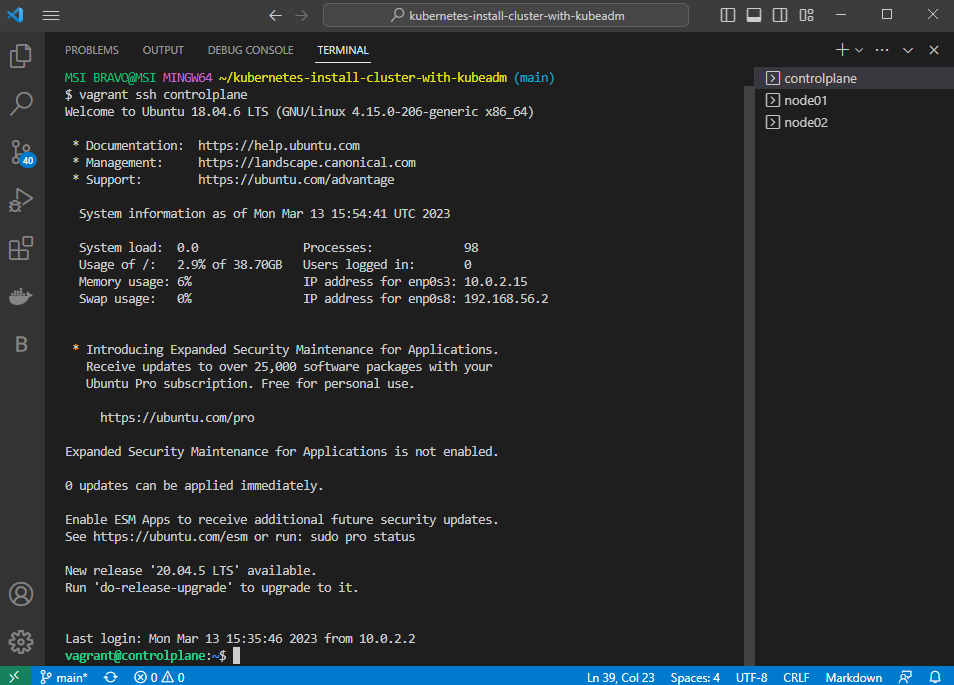
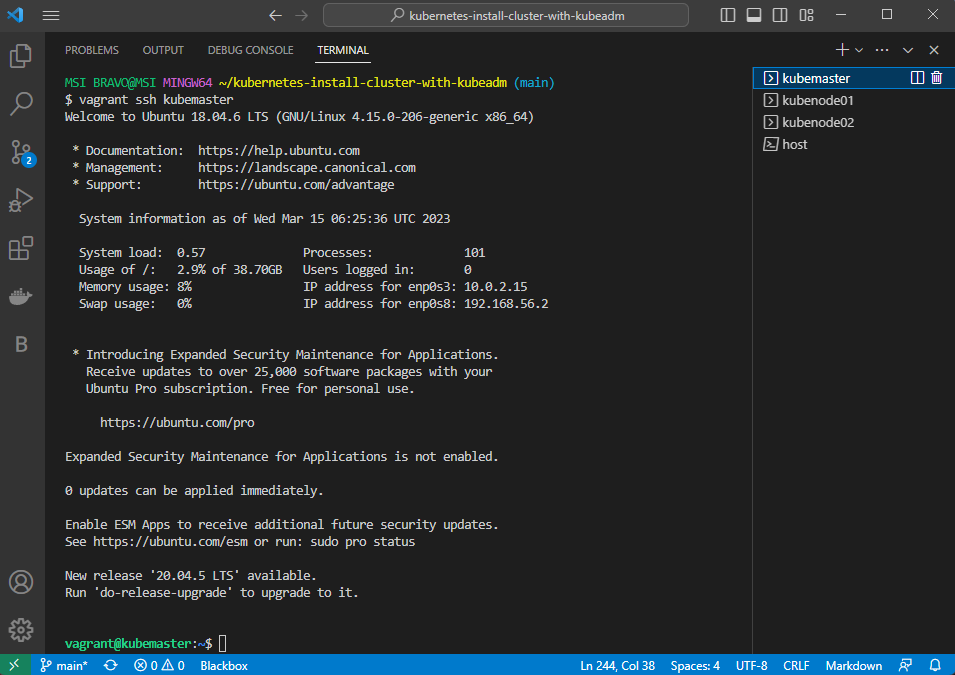
update

diff --git a/docs/Provision-VirtualBoxVM-with-Vagrant.md b/docs/Provision-VirtualBoxVM-with-Vagrant.md
@@ -103,13 +103,146 @@ Run the command:
 
     vagrant up
 
-![Vagrant up output](images/vagrant-up.png)
+Output should be simillar:
+
+    Bringing machine 'kubemaster' up with 'virtualbox' provider...
+    Bringing machine 'kubenode01' up with 'virtualbox' provider...
+    Bringing machine 'kubenode02' up with 'virtualbox' provider...
+    ==> kubemaster: Importing base box 'ubuntu/bionic64'...
+    ==> kubemaster: Matching MAC address for NAT networking...
+    ==> kubemaster: Setting the name of the VM: kubemaster
+    ==> kubemaster: Clearing any previously set network interfaces...
+    ==> kubemaster: Preparing network interfaces based on configuration...
+        kubemaster: Adapter 1: nat
+        kubemaster: Adapter 2: hostonly
+    ==> kubemaster: Forwarding ports...
+        kubemaster: 22 (guest) => 2222 (host) (adapter 1)
+    ==> kubemaster: Running 'pre-boot' VM customizations...
+    ==> kubemaster: Booting VM...
+    ==> kubemaster: Waiting for machine to boot. This may take a few minutes...
+        kubemaster: SSH address: 127.0.0.1:2222
+        kubemaster: SSH username: vagrant
+        kubemaster: SSH auth method: private key
+        kubemaster: Warning: Connection reset. Retrying...
+        kubemaster: Warning: Connection aborted. Retrying...
+        kubemaster: 
+        kubemaster: Vagrant insecure key detected. Vagrant will automatically replace
+        kubemaster: this with a newly generated keypair for better security.
+        kubemaster: 
+        kubemaster: Inserting generated public key within guest...
+        kubemaster: Removing insecure key from the guest if it's present...
+        kubemaster: Key inserted! Disconnecting and reconnecting using new SSH key...
+    ==> kubemaster: Machine booted and ready!
+    ==> kubemaster: Checking for guest additions in VM...
+        kubemaster: The guest additions on this VM do not match the installed version of
+        kubemaster: VirtualBox! In most cases this is fine, but in rare cases it can
+        kubemaster: prevent things such as shared folders from working properly. If you see
+        kubemaster: shared folder errors, please make sure the guest additions within the
+        kubemaster: virtual machine match the version of VirtualBox you have installed on
+        kubemaster: your host and reload your VM.
+        kubemaster:
+        kubemaster: Guest Additions Version: 5.2.42
+        kubemaster: VirtualBox Version: 7.0
+    ==> kubemaster: Setting hostname...
+    ==> kubemaster: Configuring and enabling network interfaces...
+    ==> kubemaster: Mounting shared folders...
+        kubemaster: /vagrant => C:/Users/MSI BRAVO/kubernetes-install-cluster-with-kubeadm
+    ==> kubenode01: Importing base box 'ubuntu/bionic64'...
+    ==> kubenode01: Matching MAC address for NAT networking...
+    ==> kubenode01: Setting the name of the VM: kubenode01
+    ==> kubenode01: Fixed port collision for 22 => 2222. Now on port 2200.
+    ==> kubenode01: Clearing any previously set network interfaces...
+    ==> kubenode01: Preparing network interfaces based on configuration...
+        kubenode01: Adapter 1: nat
+        kubenode01: Adapter 2: hostonly
+    ==> kubenode01: Forwarding ports...
+        kubenode01: 22 (guest) => 2200 (host) (adapter 1)
+    ==> kubenode01: Running 'pre-boot' VM customizations...
+    ==> kubenode01: Booting VM...
+    ==> kubenode01: Waiting for machine to boot. This may take a few minutes...
+        kubenode01: SSH address: 127.0.0.1:2200
+        kubenode01: SSH username: vagrant
+        kubenode01: SSH auth method: private key
+        kubenode01: Warning: Connection reset. Retrying...
+        kubenode01: Warning: Connection aborted. Retrying...
+        kubenode01: 
+        kubenode01: Vagrant insecure key detected. Vagrant will automatically replace
+        kubenode01: this with a newly generated keypair for better security.
+        kubenode01: 
+        kubenode01: Inserting generated public key within guest...
+        kubenode01: Removing insecure key from the guest if it's present...
+        kubenode01: Key inserted! Disconnecting and reconnecting using new SSH key...
+    ==> kubenode01: Machine booted and ready!
+    ==> kubenode01: Checking for guest additions in VM...
+        kubenode01: The guest additions on this VM do not match the installed version of
+        kubenode01: VirtualBox! In most cases this is fine, but in rare cases it can
+        kubenode01: prevent things such as shared folders from working properly. If you see
+        kubenode01: shared folder errors, please make sure the guest additions within the
+        kubenode01: virtual machine match the version of VirtualBox you have installed on
+        kubenode01: your host and reload your VM.
+        kubenode01:
+        kubenode01: Guest Additions Version: 5.2.42
+        kubenode01: VirtualBox Version: 7.0
+    ==> kubenode01: Setting hostname...
+    ==> kubenode01: Configuring and enabling network interfaces...
+    ==> kubenode01: Mounting shared folders...
+        kubenode01: /vagrant => C:/Users/MSI BRAVO/kubernetes-install-cluster-with-kubeadm
+    ==> kubenode02: Importing base box 'ubuntu/bionic64'...
+    ==> kubenode02: Matching MAC address for NAT networking...
+    ==> kubenode02: Setting the name of the VM: kubenode02
+    ==> kubenode02: Fixed port collision for 22 => 2222. Now on port 2201.
+    ==> kubenode02: Clearing any previously set network interfaces...
+    ==> kubenode02: Preparing network interfaces based on configuration...
+        kubenode02: Adapter 1: nat
+        kubenode02: Adapter 2: hostonly
+    ==> kubenode02: Forwarding ports...
+        kubenode02: 22 (guest) => 2201 (host) (adapter 1)
+    ==> kubenode02: Running 'pre-boot' VM customizations...
+    ==> kubenode02: Booting VM...
+    ==> kubenode02: Waiting for machine to boot. This may take a few minutes...
+        kubenode02: SSH address: 127.0.0.1:2201
+        kubenode02: SSH username: vagrant
+        kubenode02: SSH auth method: private key
+        kubenode02: Warning: Connection reset. Retrying...
+        kubenode02: Warning: Connection aborted. Retrying...
+        kubenode02: 
+        kubenode02: Vagrant insecure key detected. Vagrant will automatically replace
+        kubenode02: this with a newly generated keypair for better security.
+        kubenode02: 
+        kubenode02: Inserting generated public key within guest...
+        kubenode02: Removing insecure key from the guest if it's present...
+        kubenode02: Key inserted! Disconnecting and reconnecting using new SSH key...
+    ==> kubenode02: Machine booted and ready!
+    ==> kubenode02: Checking for guest additions in VM...
+        kubenode02: The guest additions on this VM do not match the installed version of
+        kubenode02: VirtualBox! In most cases this is fine, but in rare cases it can
+        kubenode02: prevent things such as shared folders from working properly. If you see
+        kubenode02: shared folder errors, please make sure the guest additions within the
+        kubenode02: virtual machine match the version of VirtualBox you have installed on
+        kubenode02: your host and reload your VM.
+        kubenode02:
+        kubenode02: Guest Additions Version: 5.2.42
+        kubenode02: VirtualBox Version: 7.0
+    ==> kubenode02: Setting hostname...
+    ==> kubenode02: Configuring and enabling network interfaces...
+    ==> kubenode02: Mounting shared folders...
+        kubenode02: /vagrant => C:/Users/MSI BRAVO/kubernetes-install-cluster-with-kubeadm
 
 You can verify our provisioning VM by command:
 
     vagrant status
 
-![Vagrant status](images/vagrant-status.png)
+It will show your virtual machines which be managed by vagrant
+
+    Current machine states:
+
+    kubemaster                running (virtualbox)
+    kubenode01                running (virtualbox)
+    kubenode02                running (virtualbox)
+
+    This environment represents multiple VMs. The VMs are all listed
+    above with their current state. For more information about a specific
+    VM, run `vagrant status NAME`.
 
 #### Issue: vagrant up times out on 'default: SSH auth method: private key' 
 
@@ -137,3 +270,7 @@ As you can see in the output of `vagrant up`, Vagrant had fowarded port 22 and g
 For more information you can see [Vagrant Share: SSH Sharing](https://developer.hashicorp.com/vagrant/docs/share/ssh) and [Vagrantfile: config.ssh](https://developer.hashicorp.com/vagrant/docs/vagrantfile/ssh_settings).
 
 Then you're good to go!
+
+## Next
+
+▶ [Installing a container runtime (containerd) on all virtual machines](Installing-a-container-runtime.md)

diff --git a/docs/Installing-kubeadm-kubelet-kubectl.md b/docs/Installing-kubeadm-kubelet-kubectl.md
@@ -9,7 +9,7 @@
 
 >One of the key areas covered in the `Certified Kubernetes Administrator (CKA)` exam is cluster setup, which includes using tools like Kubeadm to bootstrap a new Kubernetes cluster.
 
-### Disable swap:
+## Disable swap:
 
 You must disable `swap` in order for the `kubelet` to work properly. The discussion about this is in this issue https://github.com/kubernetes/kubernetes/issues/53533
 
@@ -23,7 +23,7 @@ To disable `swap` on Linux Machines:
     # And then to disable swap on startup in /etc/fstab
     sudo sed -i '/ swap / s/^\(.*\)$/#\1/g' /etc/fstab
 
-### Installing kubeadm, kubelet and kubectl :
+## Installing kubeadm, kubelet and kubectl :
 
 You will install these packages on all of your machines:
 
@@ -65,3 +65,7 @@ For more information on version skews, see:
 The kubelet is now restarting every few seconds, as it waits in a crashloop for kubeadm to tell it what to do.
 
 >Node: 🔐 The client certificates generated by kubeadm will be expired after 1 year. See [here](https://kubernetes.io/docs/tasks/administer-cluster/kubeadm/kubeadm-certs/) for more details about custom or renewals certificates.
+
+## Next
+
+▶ [Boostrapping control plane and nodes](Boostrapping-control-plane-and-nodes.md)

diff --git a/README.md b/README.md
@@ -43,7 +43,7 @@
 
 ### Step-by-step tutorial
 
-- [ ] [Provision VirtualBox's VM with Vagrant](docs/Provision-VirtualBoxVM-with-Vagrant.md)
-- [ ] [Installing a container runtime (containerd) on all virtual machines](docs/Installing-a-container-runtime.md)
-- [ ] [Installing kubeadm, kubelet and kubectl on all virtual machines](docs/Installing-kubeadm-kubelet-kubectl.md)
-- [ ] [Boostrapping control plane and nodes](docs/Boostrapping-control-plane-and-nodes.md)
+▶ [Provision VirtualBox's VM with Vagrant](docs/Provision-VirtualBoxVM-with-Vagrant.md)
+▶ [Installing a container runtime (containerd) on all virtual machines](docs/Installing-a-container-runtime.md)
+▶ [Installing kubeadm, kubelet and kubectl on all virtual machines](docs/Installing-kubeadm-kubelet-kubectl.md)
+▶ [Boostrapping control plane and nodes](docs/Boostrapping-control-plane-and-nodes.md)

diff --git a/docs/Installing-a-container-runtime.md b/docs/Installing-a-container-runtime.md
@@ -127,3 +127,7 @@ and run the following commands:
 In v1.22, if the user is not setting the `cgroupDriver` field under `KubeletConfiguration`, `kubeadm` will default it to **systemd**. 
 So in this tutorial we don't need to config `cgroup driver` for `kubelet` cause we will use `kubeadm` to bootstraping cluster tool in the next few steps.
 You can see [here](https://kubernetes.io/docs/tasks/administer-cluster/kubeadm/configure-cgroup-driver/#configuring-the-kubelet-cgroup-driver) for more configuring information.
+
+## Next
+
+▶ [Installing kubeadm, kubelet and kubectl on all virtual machines](Installing-kubeadm-kubelet-kubectl.md)

diff --git a/docs/Boostrapping-control-plane-and-nodes.md b/docs/Boostrapping-control-plane-and-nodes.md
@@ -231,6 +231,4 @@ Run `kubectl get pods -A` on control plane again to verify...
 
 
 
-
-
 Networking is a central part of Kubernetes, see [Kubernetes networking model](https://kubernetes.io/docs/concepts/cluster-administration/networking/#how-to-implement-the-kubernetes-networking-model) for more information.
